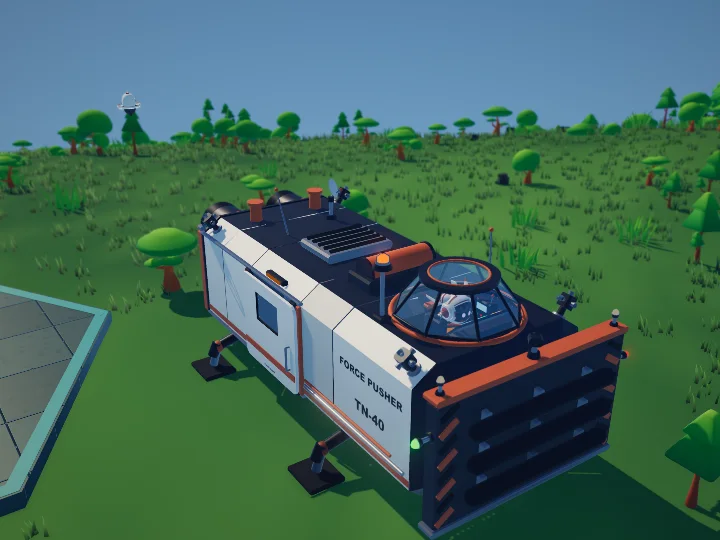
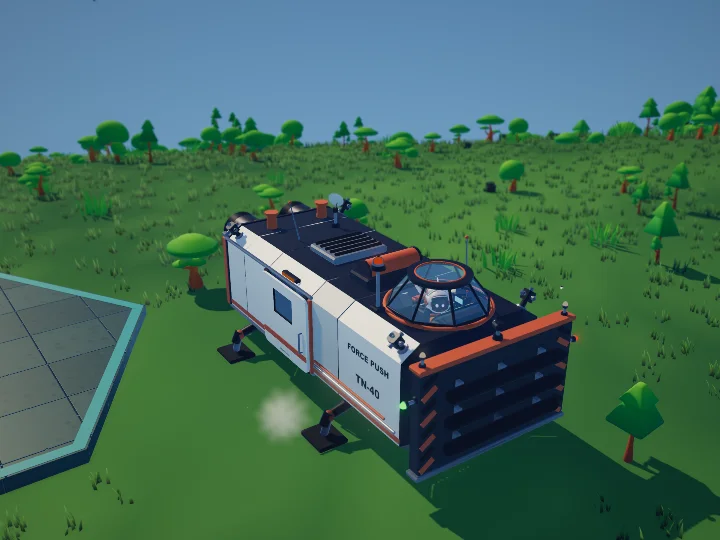
Show 1.2.0 in the README and docs, and add its changelog

diff --git a/README.md b/README.md
@@ -75,7 +75,7 @@ you.
 - **Nothing to sign up for.** There's no account, no sign-in, and no telemetry.
 - **Your work stays put.** Your threads, code, and project names never leave your computer.
 - **Pro sends one thing.** Threadnauts Pro sends its license key and a random ID for your
-  computer, to activate and renew the license and to download Pro worlds.
+  computer, to activate and renew the license and to download Pro content.
 
 The details are in [docs/privacy.md](docs/privacy.md).
 
@@ -98,25 +98,30 @@ you subscribe stays yours after you stop.
   </tr>
 </table>
 
-## Ten ships
+## Twelve ships
 
 Your bots fly out of a dropship when their threads start, and board it again when you archive
-them. Pick one of ten under **View**, or right-click the ship. Thread Crosser is the default.
+them. Pick one of twelve under **View**, or right-click the ship. Thread Crosser is the default,
+and [Threadnauts Pro](https://threadnauts.io/pro) opens Race Condition and Zero Day.
 
 <table>
   <tr>
     <td><img src="media/ship-thread-crosser.webp" alt="The Thread Crosser ship"><br>Thread Crosser</td>
     <td><img src="media/ship-graceful-shutdown.webp" alt="The Graceful Shutdown ship"><br>Graceful Shutdown</td>
-    <td><img src="media/ship-core-dumper.webp" alt="The Core Dumper ship"><br>Core Dumper</td>
+    <td><img src="media/ship-core-dumper.webp" alt="The Core Dump ship"><br>Core Dump</td>
     <td><img src="media/ship-load-balancer.webp" alt="The Load Balancer ship"><br>Load Balancer</td>
-    <td><img src="media/ship-root-cause.webp" alt="The Root Cause ship"><br>Root Cause</td>
   </tr>
   <tr>
-    <td><img src="media/ship-force-pusher.webp" alt="The Force Pusher ship"><br>Force Pusher</td>
-    <td><img src="media/ship-race-condition.webp" alt="The Race Condition ship"><br>Race Condition</td>
-    <td><img src="media/ship-hot-fixer.webp" alt="The Hot Fixer ship"><br>Hot Fixer</td>
+    <td><img src="media/ship-root-cause.webp" alt="The Root Cause ship"><br>Root Cause</td>
+    <td><img src="media/ship-force-pusher.webp" alt="The Force Push ship"><br>Force Push</td>
+    <td><img src="media/ship-race-condition.webp" alt="The Race Condition ship"><br>Race Condition <strong>Pro</strong></td>
+    <td><img src="media/ship-zero-day.webp" alt="The Zero Day ship"><br>Zero Day <strong>Pro</strong></td>
+  </tr>
+  <tr>
+    <td><img src="media/ship-hot-fixer.webp" alt="The Hot Fix ship"><br>Hot Fix</td>
     <td><img src="media/ship-watchdog.webp" alt="The Watchdog ship"><br>Watchdog</td>
     <td><img src="media/ship-edge-case.webp" alt="The Edge Case ship"><br>Edge Case</td>
+    <td><img src="media/ship-bug-hunter.webp" alt="The Bug Hunter ship"><br>Bug Hunter</td>
   </tr>
 </table>
 

diff --git a/docs/pro.md b/docs/pro.md
@@ -1,20 +1,21 @@
 # Threadnauts Pro
 
-Threadnauts is free, with 24 worlds and the whole colony. **Threadnauts Pro** opens the other 56
-worlds, and every world released while you subscribe. Prices and checkout are at
+Threadnauts is free, with 24 worlds, ten ships, and the whole colony. **Threadnauts Pro** opens the
+other 56 worlds and two more ships, Race Condition and Zero Day, plus every world released while
+you subscribe. Prices and checkout are at
 [threadnauts.io/pro](https://threadnauts.io/pro).
 
 ## What you keep
 
-Every world released while you paid stays yours for good. Worlds released after your
-subscription ends stay locked, and open again if you come back.
+Everything released while you paid stays yours for good. Anything released after your
+subscription ends stays locked, and opens again if you come back.
 
 ## Entering your key
 
 1. Buy Pro at [threadnauts.io/pro](https://threadnauts.io/pro). Your license key is in the Polar
    receipt, and starts with `THREADCRUMBS-`.
 2. In Threadnauts, open settings (`S`) and paste the key under **Threadnauts Pro**.
-3. Threadnauts adds this computer to your license and downloads the Pro worlds.
+3. Threadnauts adds this computer to your license and downloads the Pro content.
 
 ## Computers
 
@@ -25,13 +26,13 @@ subscription.
 
 ## Going offline
 
-Entering your key needs the internet once, and so do new Pro worlds when they download. After
+Entering your key needs the internet once, and so does new Pro content when it downloads. After
 that, the license is checked on your computer, with no network call. Threadnauts renews it about
 once a week while it's open and online, and being offline never turns Pro off.
 
 ## What Pro sends
 
-Pro adds worlds and nothing else. When you enter your key, Threadnauts sends the key and a random
+Pro reads nothing more about your work. When you enter your key, Threadnauts sends the key and a random
 ID for this computer to the Threadcrumbs license service. After that, it sends only the license
-itself, to renew it and to download Pro worlds. It never sends your threads, code, or project
+itself, to renew it and to download Pro content. It never sends your threads, code, or project
 names.

diff --git a/CHANGELOG.md b/CHANGELOG.md
@@ -3,6 +3,27 @@
 What changed in each release of Threadnauts. Run `npx @threadcrumbs/threadnauts@latest` to get
 the newest one.
 
+## 1.2.0 — November 6, 2026
+
+- **Twelve ships:** Bug Hunter joins the fleet, a low, crouched tracker with a clamshell tail and a
+  striped drop ramp. Zero Day is new with Pro: a long needle nose and one smooth body with its
+  engines sculpted in.
+- **Race Condition is now a Pro ship:** it's rebuilt as a satin-orange wedge with blade lights, a
+  wraparound canopy, and an engine in its nose. Without Pro, a saved Race Condition opens as Thread
+  Crosser, and you can pick any of the ten free ships.
+- **Ship names:** Core Dumper, Force Pusher, and Hot Fixer are now Core Dump, Force Push, and Hot
+  Fix.
+- **Ship clicks:** click the hatch to vent steam and open it for a moment. Click anywhere else on
+  the ship and its pilot answers and opens his Commander card, where global prompts and actions are
+  coming soon. On Race Condition and Zero Day, the space below the elevator counts as the hatch.
+- **The pilot keeps watch:** he now scans the view with narrowed eyes.
+- **Walls:** zone and district walls now bend with the world, and zone walls stand half as tall as
+  district walls. District walls keep their neon colors but glow as strongly as zone walls, and
+  walls and names stay as easy to read by day as they are at night.
+- **Repo names:** they're lettered like district names now, in the repo's color, without the dot.
+- **Saving:** if another program is holding your colony file, Threadnauts now waits and tries again.
+  A file it can't read no longer looks like an empty colony.
+
 ## 1.1.0 — November 2, 2026
 
 - **Ten ships:** the lander is now one of ten dropships, each with a working hatch, a lit bay,

diff --git a/docs/privacy.md b/docs/privacy.md
@@ -6,9 +6,9 @@ browser. There's no account and no sign-in.
 | | |
 | --- | --- |
 | **Reads** | Your harnesses' own session records and transcripts |
-| **Writes** | `colony.json` in its data folder, with your colony's layout and the names and paths of your repos. With Pro, also your license and the downloaded Pro worlds, in the shared Threadcrumbs folder |
+| **Writes** | `colony.json` in its data folder, with your colony's layout and the names and paths of your repos. With Pro, also your license and the downloaded Pro content, in the shared Threadcrumbs folder |
 | **Never writes** | Anything belonging to a harness. Archiving or hiding a thread here changes nothing in the harness |
-| **Sends** | Nothing, without Pro. With Pro: your license key and a random ID for this computer when you activate, then the license itself, to renew it about once a week and to download Pro worlds |
+| **Sends** | Nothing, without Pro. With Pro: your license key and a random ID for this computer when you activate, then the license itself, to renew it about once a week and to download Pro content |
 | **Never sends** | Your threads, code, prompts, or project names. There's no telemetry |
 
 ## Where it keeps things

diff --git a/docs/troubleshooting.md b/docs/troubleshooting.md
@@ -57,12 +57,12 @@ Open settings (`S`) and pick a lower **Quality preset**. A fresh install starts 
 **Adaptive quality**, which is on by default, lowers the render scale by itself when frames get
 expensive.
 
-## Pro worlds are still locked
+## Pro worlds or ships are still locked
 
 - Enter your license key in settings, under **Threadnauts Pro**. It's in your Polar receipt and
   starts with `THREADCRUMBS-`.
 - The first time, Threadnauts needs the internet, to add this computer to your license and
-  download the Pro worlds. After that, it checks the license on your computer.
+  download the Pro content. After that, it checks the license on your computer.
 - One key works on three computers. If all three are used, remove one in the
   [customer portal](https://threadcrumbs.io/portal).
 
